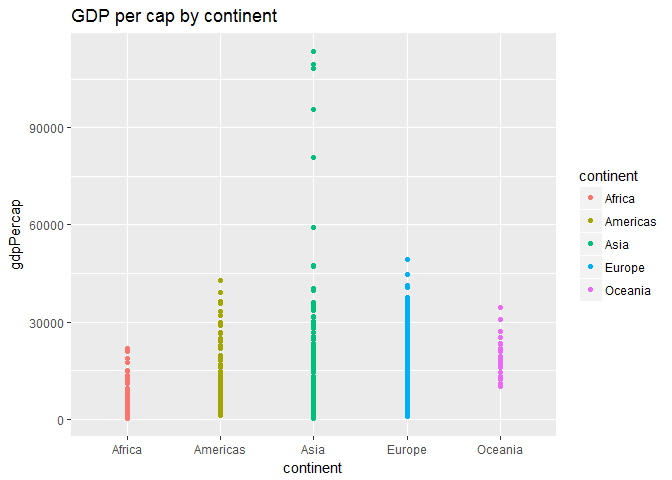
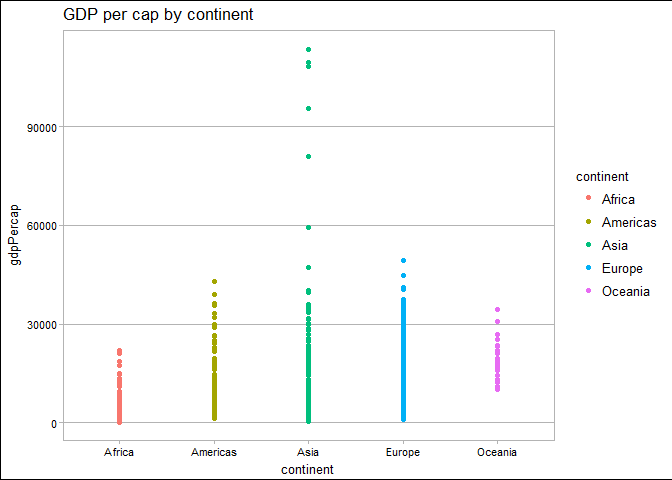
lifeExp change over time, try plot lag later

diff --git a/hw03/hw03_Gapminder.md b/hw03/hw03_Gapminder.md
@@ -65,36 +65,86 @@ Get the maximum and minimum of GDP per capita for all continents
 ================================================================
 
 ``` r
-gtbl <- tbl_df(gapminder)
-
-tbl1 <- gtbl %>% group_by(continent) %>% summarise_each(funs(mean, median), gdpPercap) 
-
-knitr::kable(tbl1) 
+gapminder %>% 
+  group_by(continent) %>% 
+  summarise(Max=max(gdpPercap), Min=min(gdpPercap)) %>% 
+  knitr::kable()
 ```
 
-| continent |       mean|     median|
-|:----------|----------:|----------:|
-| Africa    |   2193.755|   1192.138|
-| Americas  |   7136.110|   5465.510|
-| Asia      |   7902.150|   2646.787|
-| Europe    |  14469.476|  12081.749|
-| Oceania   |  18621.609|  17983.304|
+| continent |        Max|         Min|
+|:----------|----------:|-----------:|
+| Africa    |   21951.21|    241.1659|
+| Americas  |   42951.65|   1201.6372|
+| Asia      |  113523.13|    331.0000|
+| Europe    |   49357.19|    973.5332|
+| Oceania   |   34435.37|  10039.5956|
 
 ``` r
-ggplot(gtbl, aes(x = continent, y = gdpPercap, color = continent)) +
-  geom_point() + ggtitle("GDP per cap by continent") 
+ggplot(gapminder, aes(x=continent, y=gdpPercap, color = continent)) +
+  geom_point()+ 
+  theme_calc()+
+  ggtitle("GDP per cap by continent")
 ```
 
-![](hw03_Gapminder_files/figure-markdown_github-ascii_identifiers/unnamed-chunk-3-1.png)
+![](hw03_Gapminder_files/figure-markdown_github-ascii_identifiers/max_min-1.png)
 
 Look at the spread of GDP per capita within the continents.
 ===========================================================
+
+``` r
+gapminder %>% 
+  group_by(continent) %>% 
+  summarise(SD.gdp=sd(gdpPercap), IQR.gdp=IQR(gdpPercap)) %>% 
+  knitr::kable()
+```
+
+| continent |     SD.gdp|    IQR.gdp|
+|:----------|----------:|----------:|
+| Africa    |   2827.930|   1616.170|
+| Americas  |   6396.764|   4402.431|
+| Asia      |  14045.373|   7492.262|
+| Europe    |   9355.213|  13248.301|
+| Oceania   |   6358.983|   8072.258|
+
+``` r
+ggplot(gapminder, aes(x=gdpPercap, fill=continent))+
+  geom_density(alpha = 0.2, lwd=0.65)+
+  theme_calc()+
+  ggtitle("The Density Plot of gdpPercap for each continents")
+```
+
+![](hw03_Gapminder_files/figure-markdown_github-ascii_identifiers/spread_gpd-1.png)
+
+``` r
+ggplot(gapminder, aes(x=continent, y=gdpPercap, color=continent))+
+  geom_boxplot(fill=continent_colors)+
+  theme_calc()+
+  ggtitle("The Boxplot of GDP per capita in each Continent")
+```
+
+![](hw03_Gapminder_files/figure-markdown_github-ascii_identifiers/spread_gpd-2.png)
 
 Compute a trimmed mean of life expectancy for different years. Or a weighted mean, weighting by population.
 ===========================================================================================================
 
 How is life expectancy changing over time on different continents?
 ==================================================================
+
+``` r
+#lag
+
+gapminder %>% 
+  ggplot(aes(x=year, y=lifeExp, color=continent))+
+  geom_point(aes(group=continent))+
+  geom_smooth(se=FALSE)+
+  facet_wrap(~continent)+
+  theme_calc()+
+  ggtitle("The plot of lifeExp over time in each Continent")
+```
+
+    ## `geom_smooth()` using method = 'loess'
+
+![](hw03_Gapminder_files/figure-markdown_github-ascii_identifiers/change_lifeExp-1.png)
 
 Find countries with interesting stories
 =======================================
